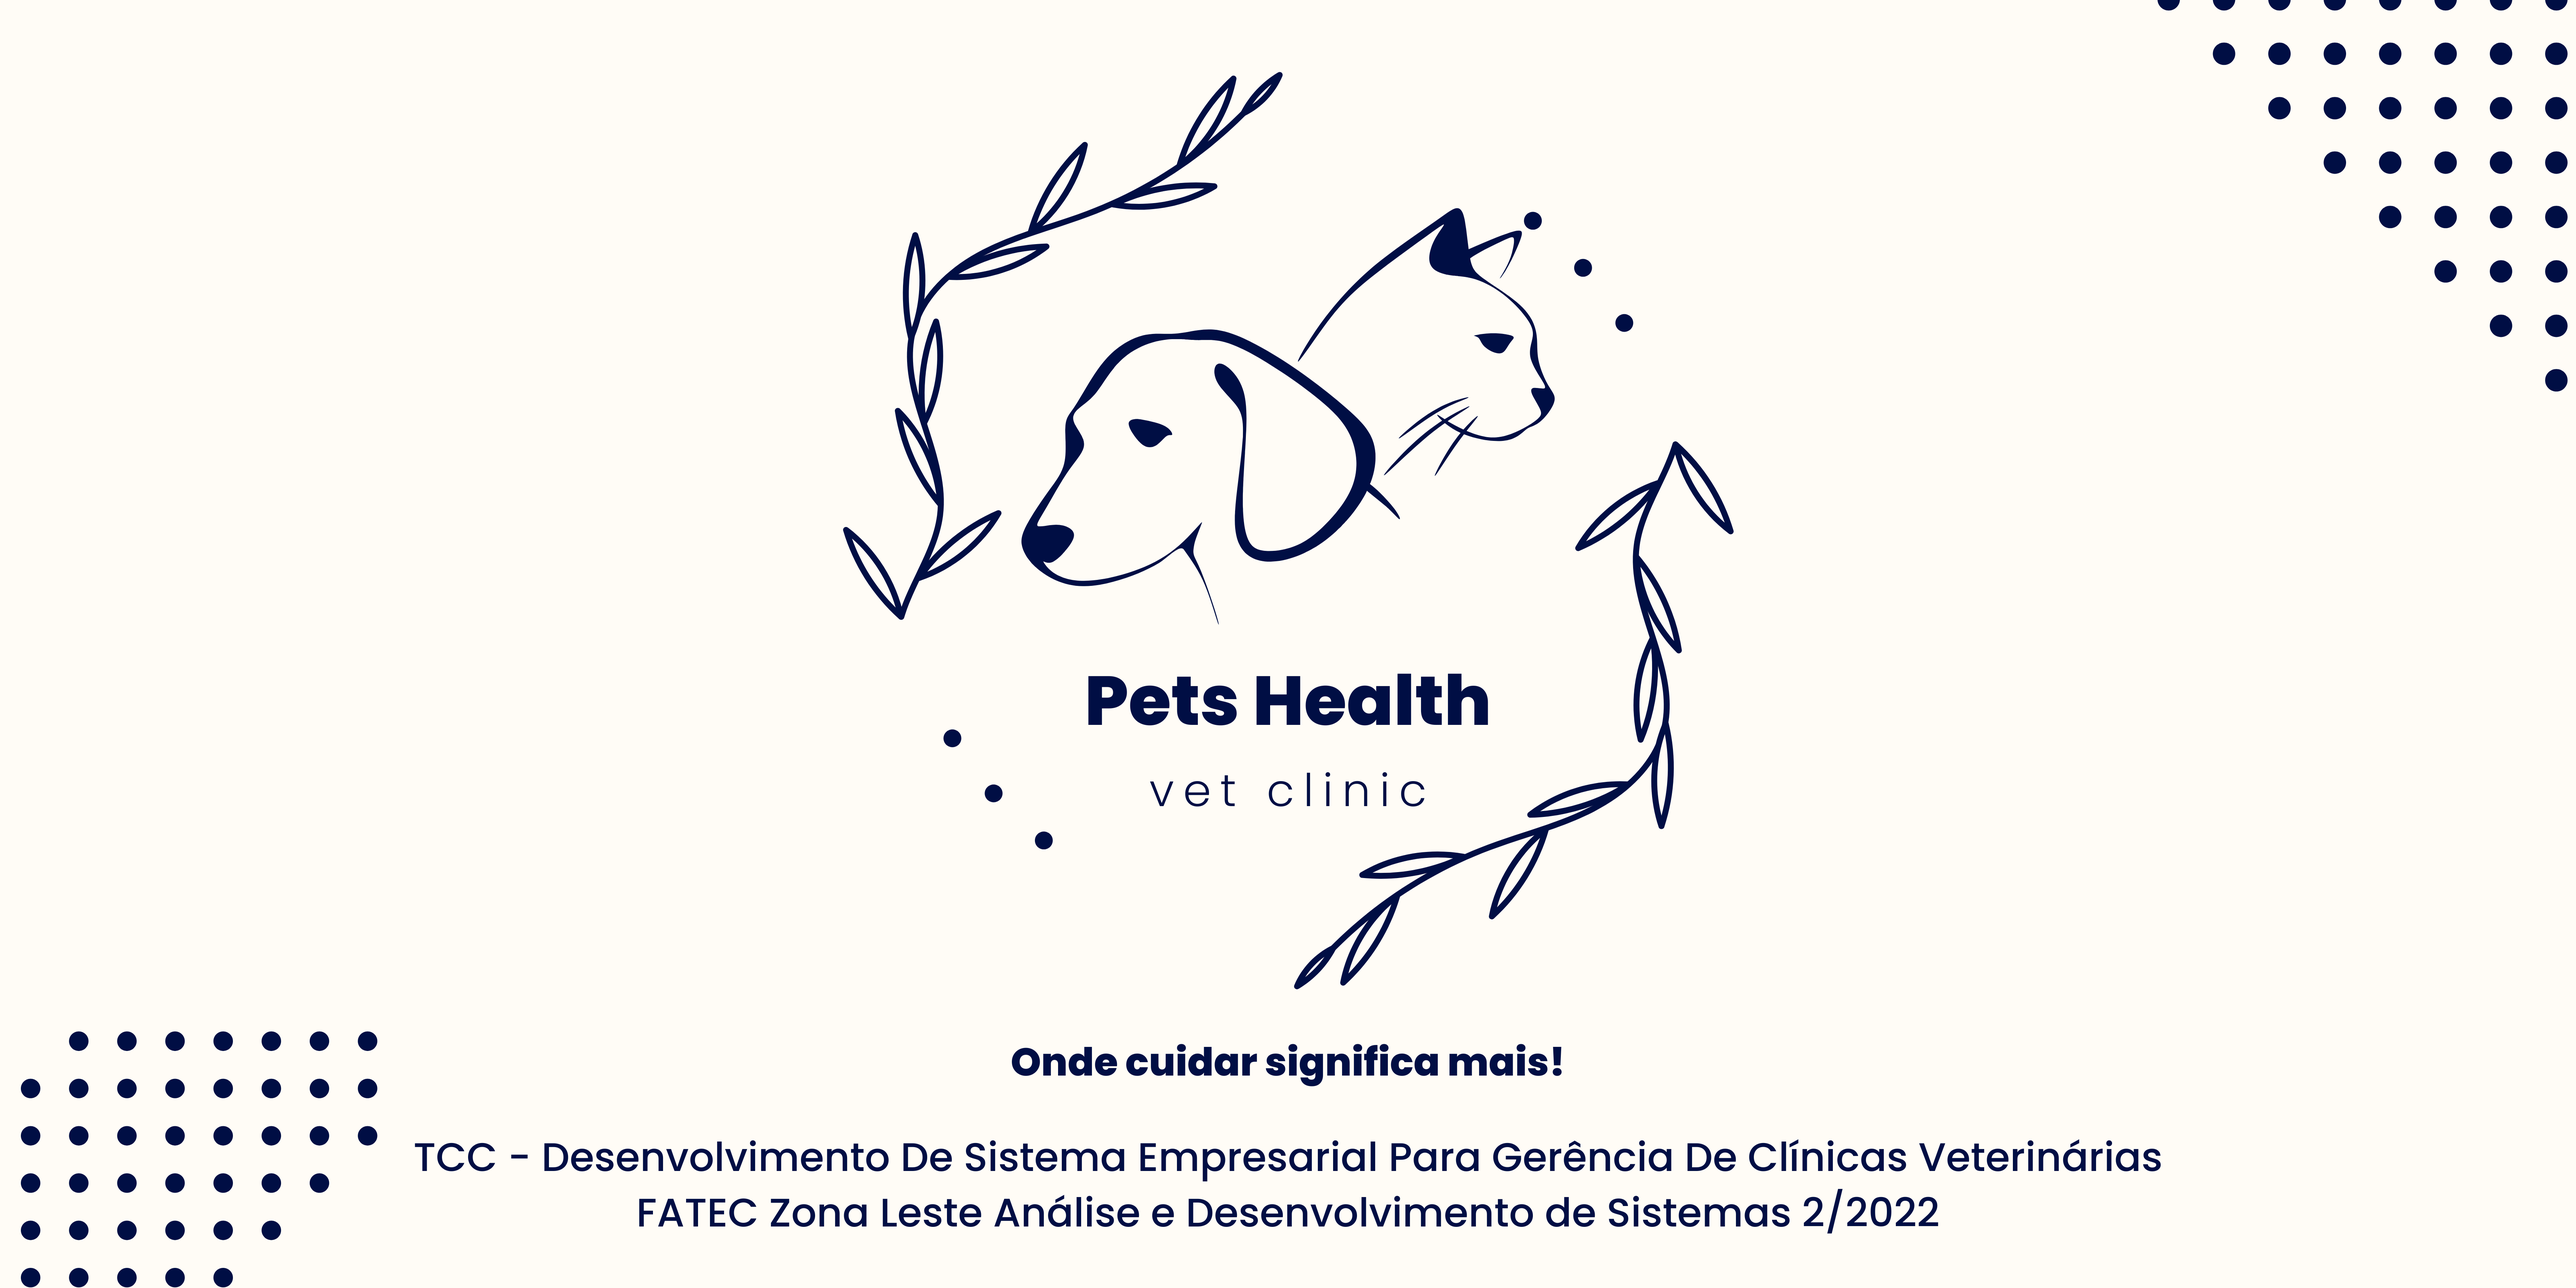
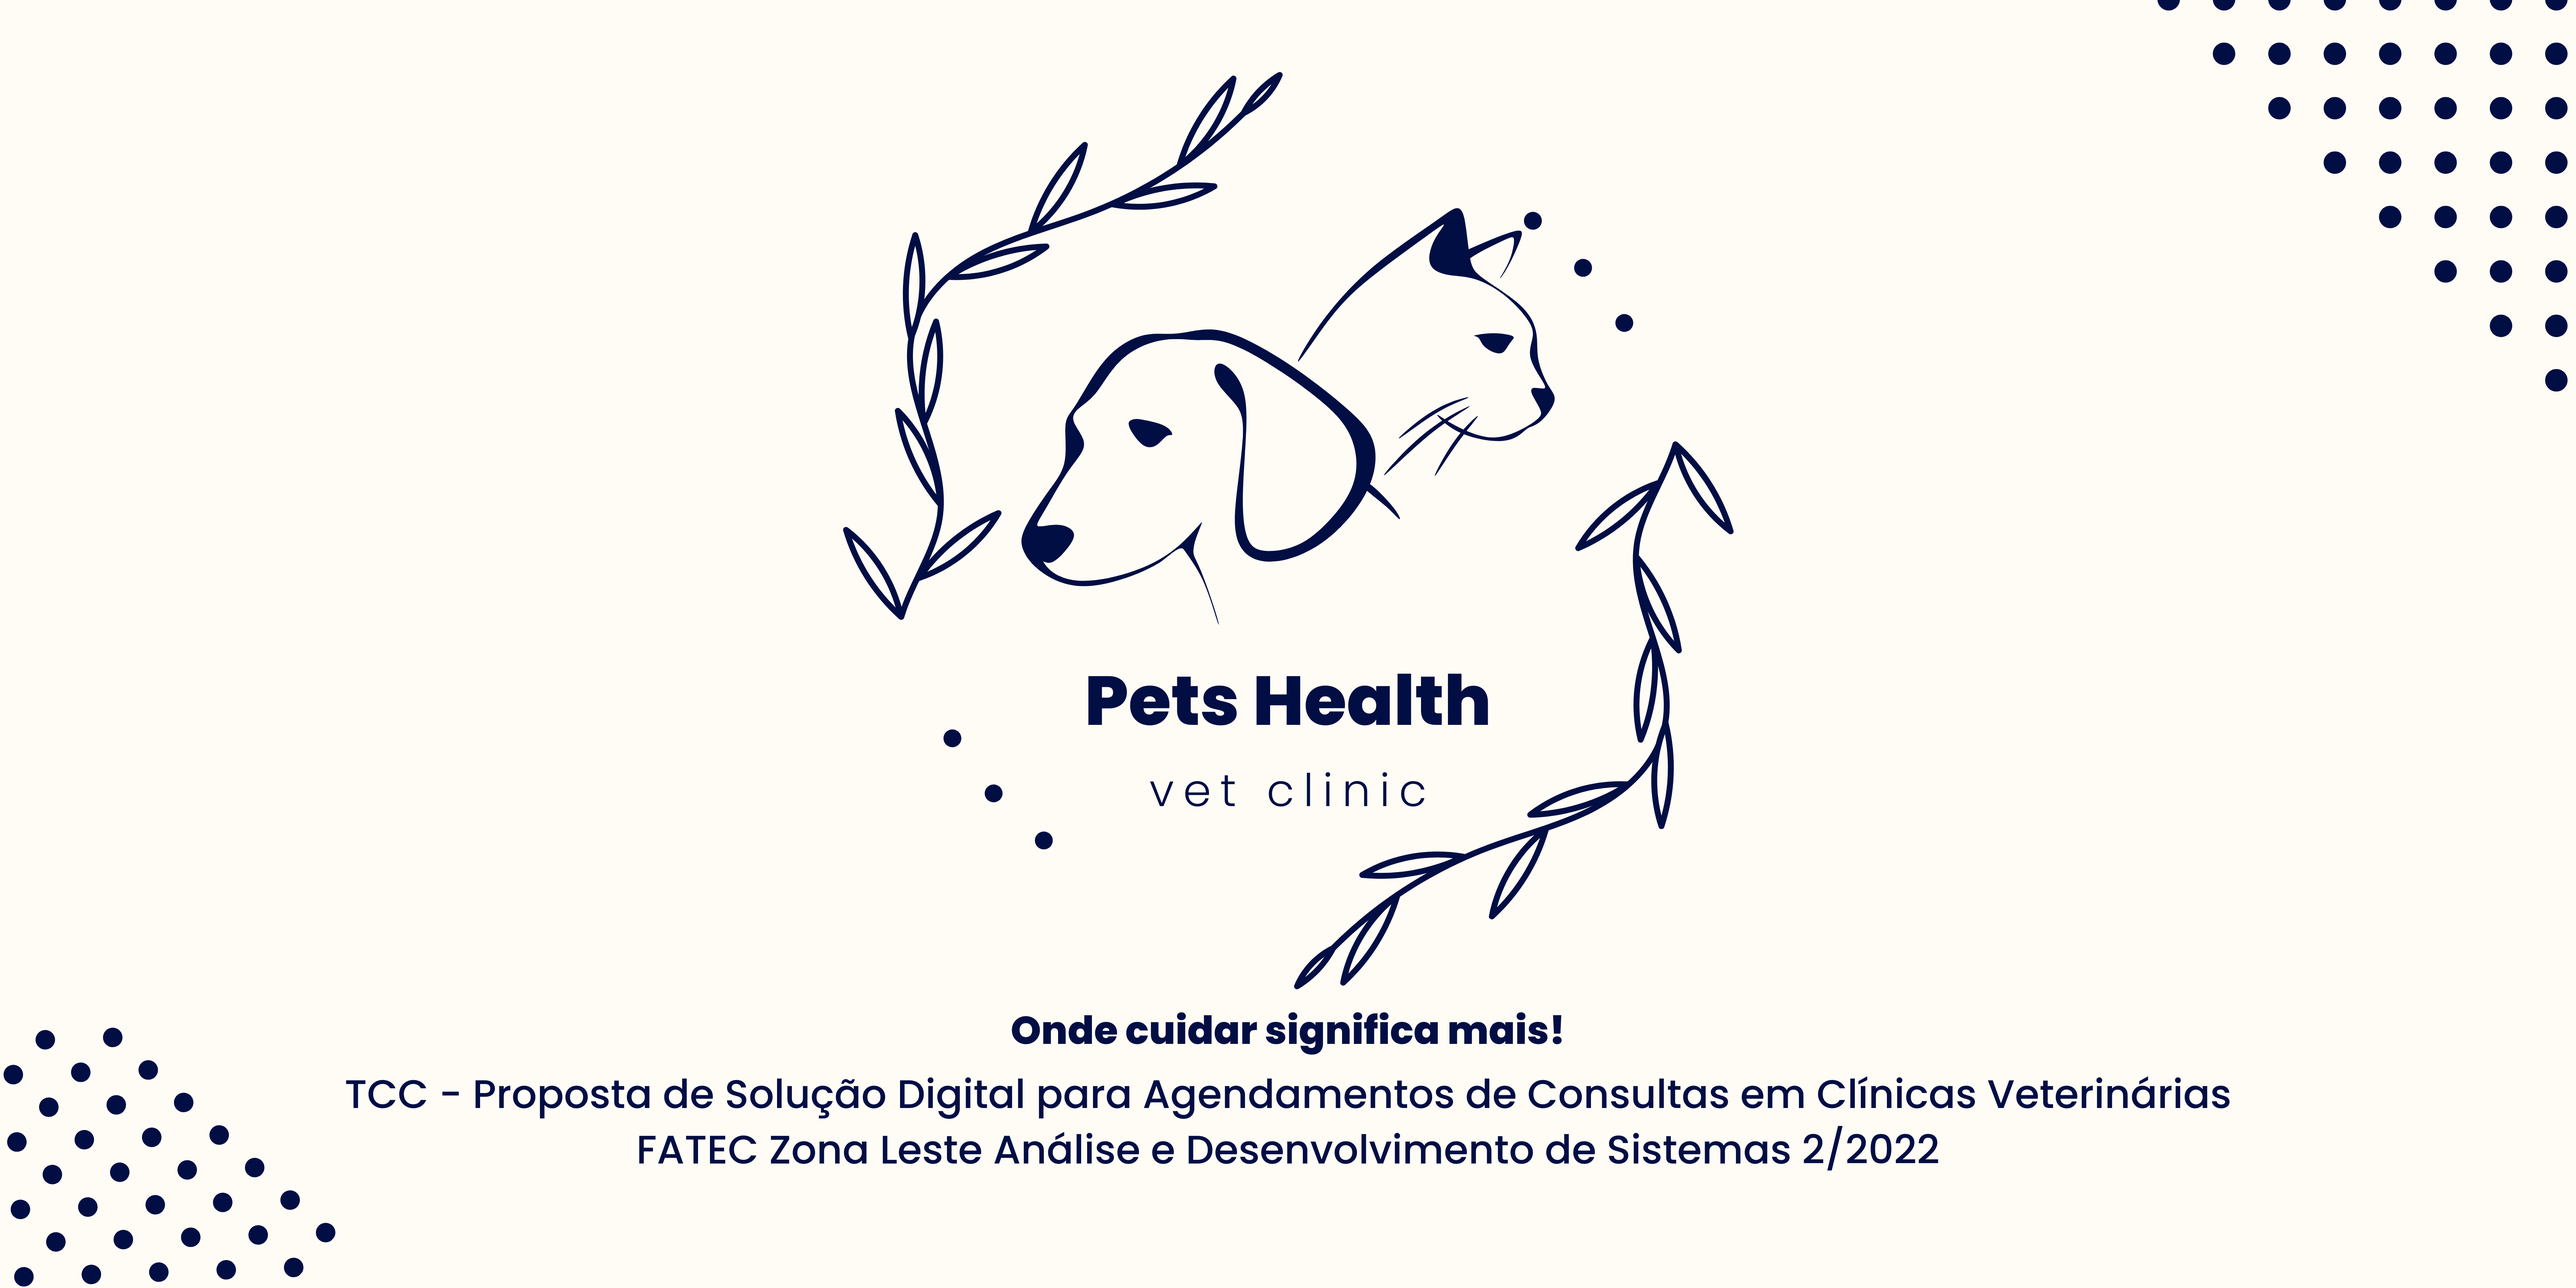
docs: atualizado readme

Changed region(s): [[0.0, 0.7812, 0.875, 1.0]]

diff --git a/README.md b/README.md
@@ -27,21 +27,20 @@
 
 ## 💻 Sobre o projeto
 
-🐶 Pets Health - é um projeto de conclusão de curso, no qual consiste em um sistema para gerência de clínica veterinária.
+🐶 Pets Health - é um projeto de conclusão de curso, no qual consiste em um sistema para agendamentos de consultas para clínicas veterinárias.
 
 O Projeto foi realizado durante o ano de 2022 sob orientação do professor [Leandro Colevati dos Santos](https://github.com/lecolevati).
 
 ---
 ## ⚙ Funcionalidades
 
-- [x] Login Administrador e Funcionário
+- [x] Login Administrador e Funcionários (Recepcionista e Veterinário)
 - [x] Cadastro de Funcionários
 - [x] Redefinir Senha
 - [x] Gerenciar Consultas
 - [x] Gerenciar Pacientes
 - [x] Gerenciar Tutores
 - [x] Gerenciar Funcionários
-- [x] Gerar PDF e Impressão de Prontuário
 
 ---
 
@@ -56,7 +55,6 @@ O layout da aplicação está disponível no Figma:
 <p align="center">
   <img alt="login" title="#login" src="./.github/login.png" >
   <img alt="dashboard" title="#dashboard" src="./.github/dashboard.png">
-  <img alt="prontuario" title="#prontuario" src="./.github/prontuario-por-paciente.png">
 </p>
 
 ---
